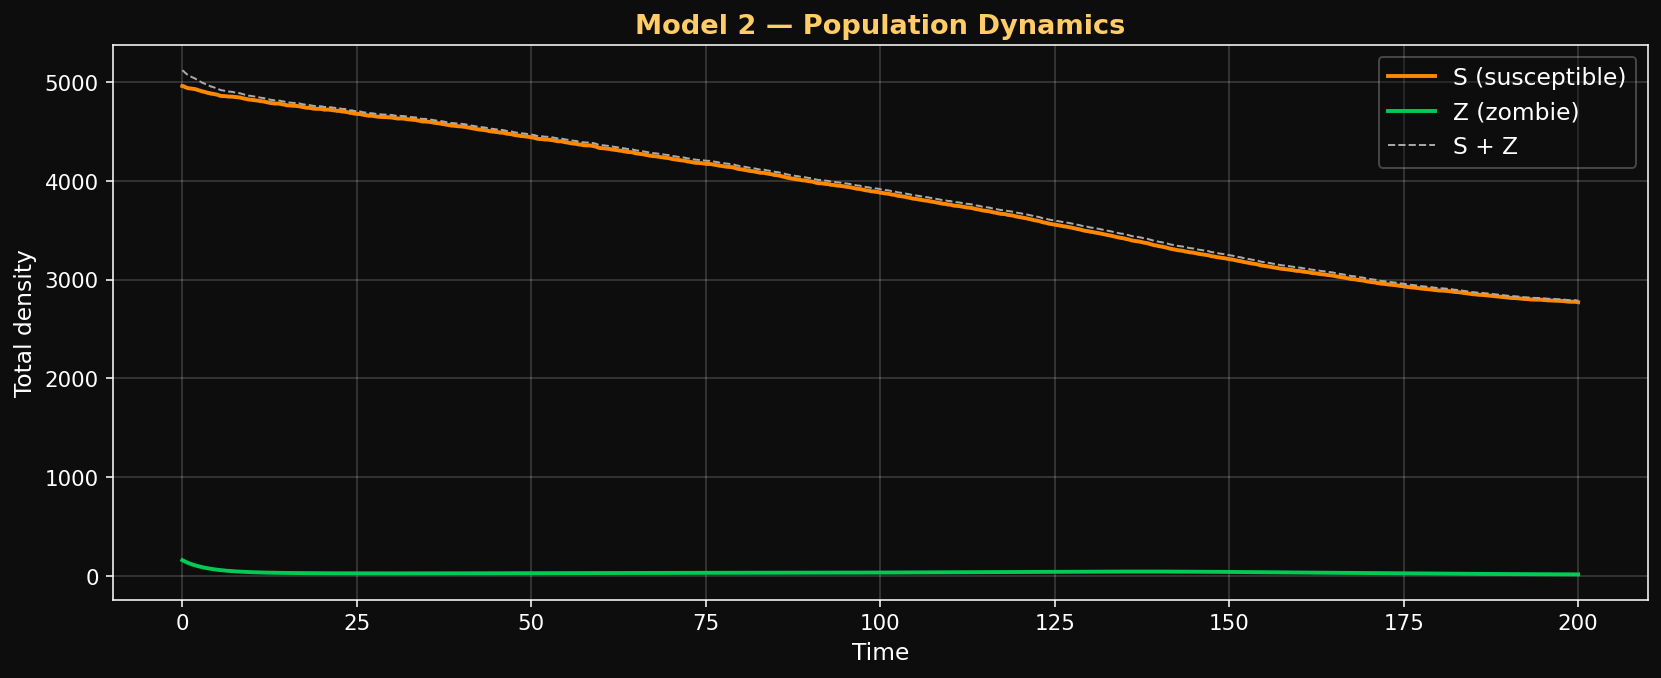
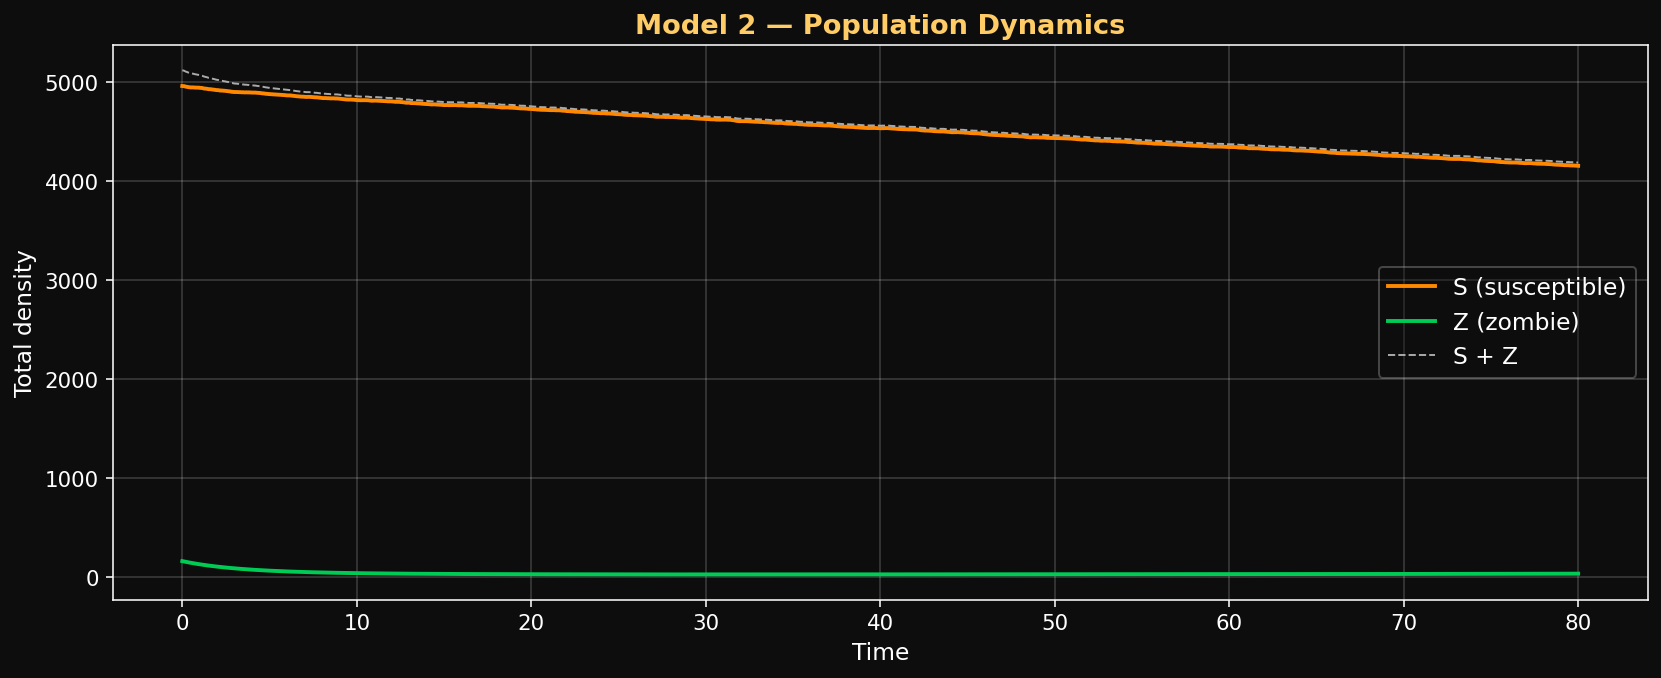
To verify the markdowns

diff --git a/src/models.py b/src/models.py
@@ -124,40 +124,28 @@ def model1_pure_system(S, Z, dx, dy, dt, Ds, Dz):
     return np.maximum(S_new, 0), np.maximum(Z_new, 0)
 
 def model1_updated_system(S, Z, dx, dy, dt, Ds, Dz, beta, alpha, k_panic, fear_radius):
-    # Calculate inverse step sizes based on grid spacing
+    # Calculate inverse step sizes (Assuming dx == dy for simplicity, otherwise use dx**2 and dy**2 separately inside the laplacian function)
     h_inv = 1.0 / dx
-    h2_inv = 1.0 / (dx * dy)
+    h2_inv = 1.0 / (dx**2) 
 
     # 1. Spatial Diffusion
     laplacian_S = laplacian_2d(S, h2_inv)
     laplacian_Z = laplacian_2d(Z, h2_inv)
 
     # 2. Fear Field
-    # Humans don't just react to the zombies in their exact cell, but the general area
     Z_fear = gaussian_filter(Z, sigma=fear_radius)
 
     # 3. Divergence of the panic term (Advection)
-    # Using your conservative advection helper based on the fear gradient
     div_panic = advection_div_upwind(S, Z_fear, h_inv)
 
-    # 4. Saturated Infection Term
-    raw_infection_rate = beta * S * Z
-    
-    # Calculate actual number of humans that WOULD be bitten this step
-    intended_infections = raw_infection_rate * dt
-    
-    # Safety Net: Cap the infections to the number of available Susceptibles
-    actual_infections = np.minimum(intended_infections, S)
-    
-    # Convert back to a rate for the update equation
-    safe_infection_term = actual_infections / dt
+    # 4. Reaction Terms (Rates)
+    actual_bites = beta * S * Z
+    zombie_deaths = alpha * S * Z
 
-    # 5. Explicit Update Equations
-    S_new = S + dt * (Ds * laplacian_S + k_panic * div_panic - safe_infection_term)
-    Z_new = Z + dt * (Dz * laplacian_Z + safe_infection_term - alpha * S * Z)
+    # 5. Explicit Update Equations (dt applied to ALL terms!)
+    S_new = S + dt * (Ds * laplacian_S + k_panic * div_panic - actual_bites)
+    Z_new = Z + dt * (Dz * laplacian_Z - zombie_deaths + actual_bites)
 
-    # Note: `np.maximum` handles extreme stochastic noise drops, 
-    # but the core PDE mechanics will no longer clone humans.
     return np.maximum(S_new, 0), np.maximum(Z_new, 0)
 
 def model1_simulation_loop(sim_type, S, Z, p):